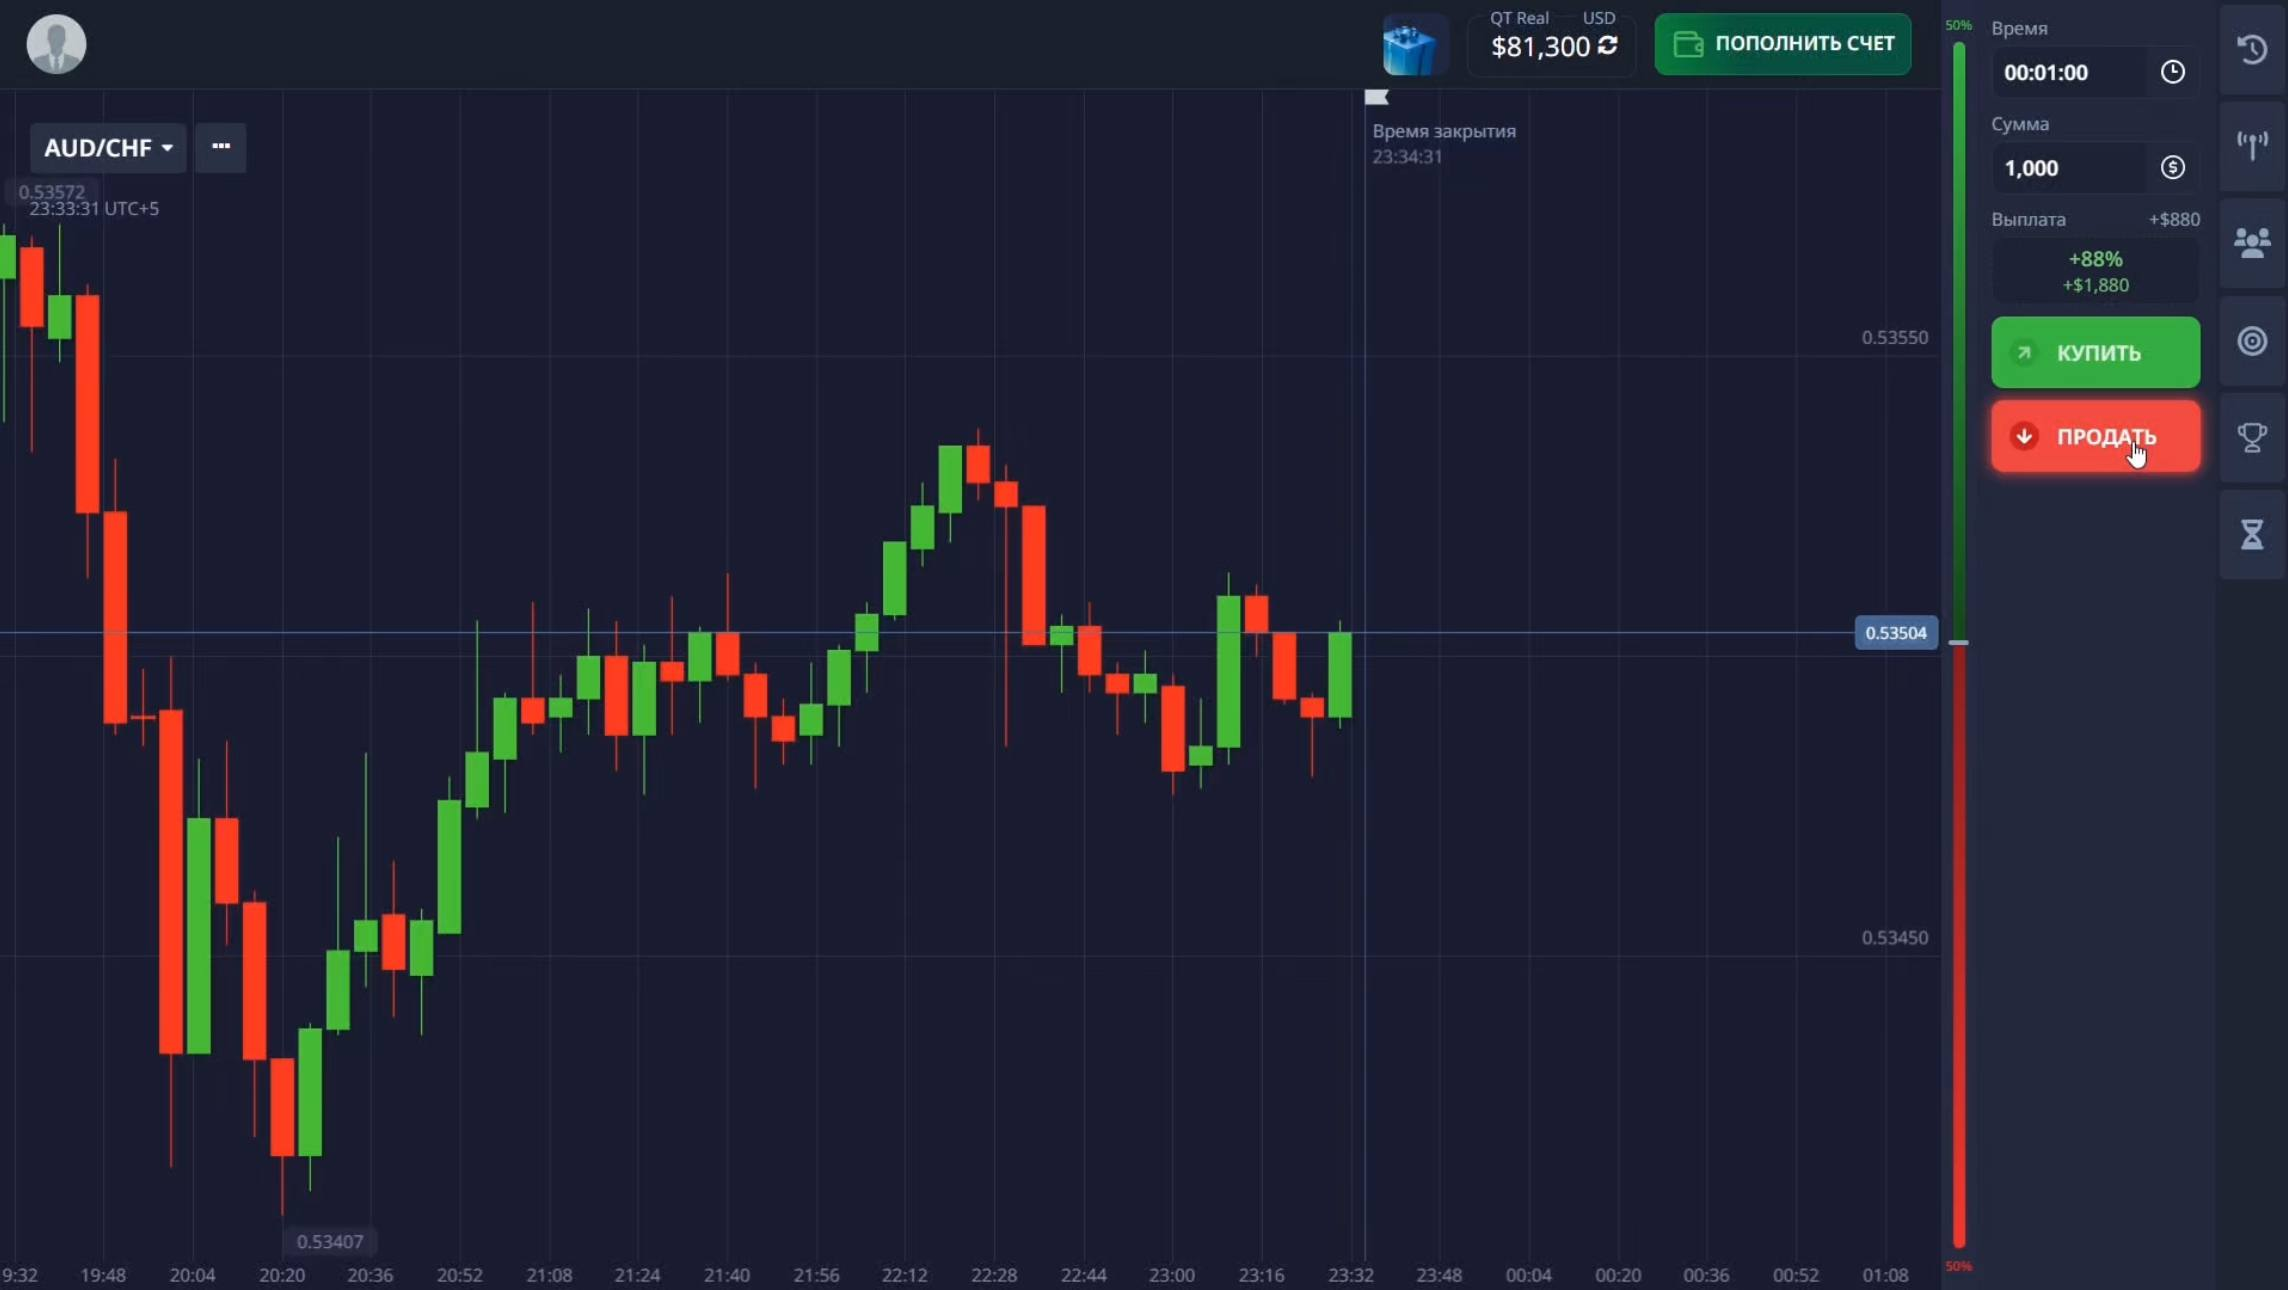
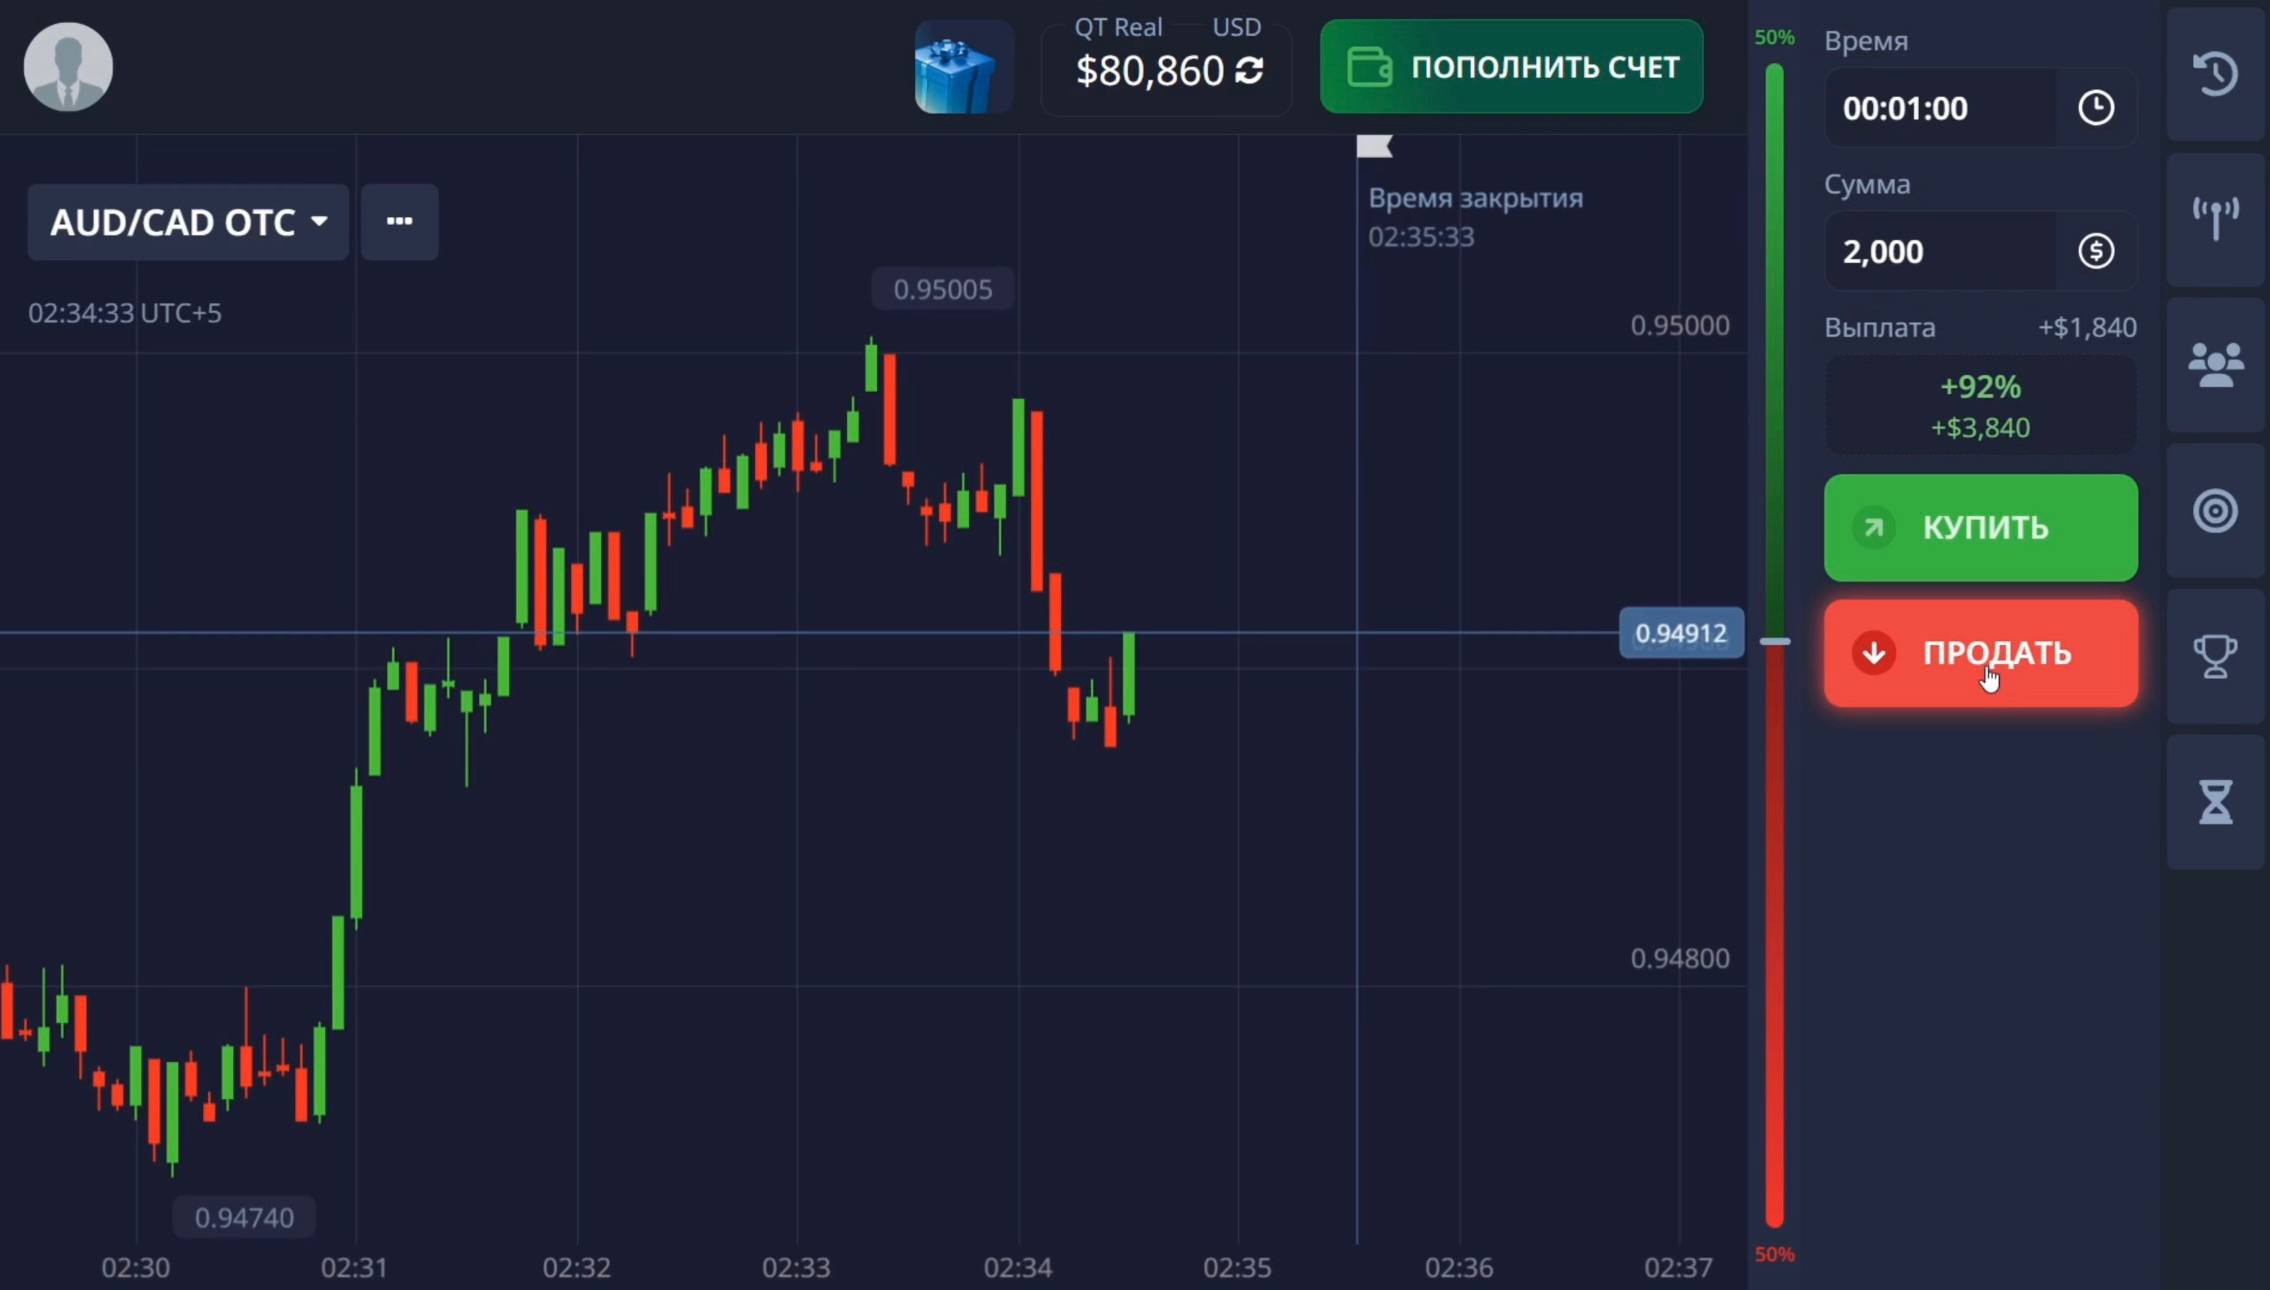
Add files via upload

diff --git a/index.html b/index.html
@@ -3,7 +3,7 @@
 <head>
   <meta charset="UTF-8" />
   <meta name="viewport" content="width=device-width, initial-scale=1.0" />
-  <title>Торговая сделка</title>
+  <title>PRO TRADE</title>
 
   <!-- Предзагрузка -->
   <link rel="preload" href="fonts/BenzinBold.woff2" as="font" type="font/woff2" crossorigin>
@@ -244,7 +244,7 @@
 
   <div class="popup" id="popup">
     <div class="popup-content">
-      <h3>💰 За одну сделку Вы могли получить выплату в размере $3,840 !</h3>
+      <h3>💰 За одну сделку Вы могли получить выплату в размере $3,840!</h3>
       <p>Но хочу обрадовать! 🙌 У нас открыт ограниченный набор в наше закрытое комьюнити — всего 15-20 мест. Успевай забрать свое место в ряды лучших 💪</p>
       <a href="https://t.me/+YLGk07IGmTA3MzZi" target="_blank" class="tg-button">💬 Написать</a>
     </div>
@@ -268,7 +268,7 @@
       }, 500);
     });
 
-    // Кнопка "Торговая сделка"
+    // Кнопка "ПРО ТРЕЙД"
     playBtn.addEventListener('click', () => {
       if (navigator.vibrate) navigator.vibrate(100);
       playBtn.style.display = 'none';
